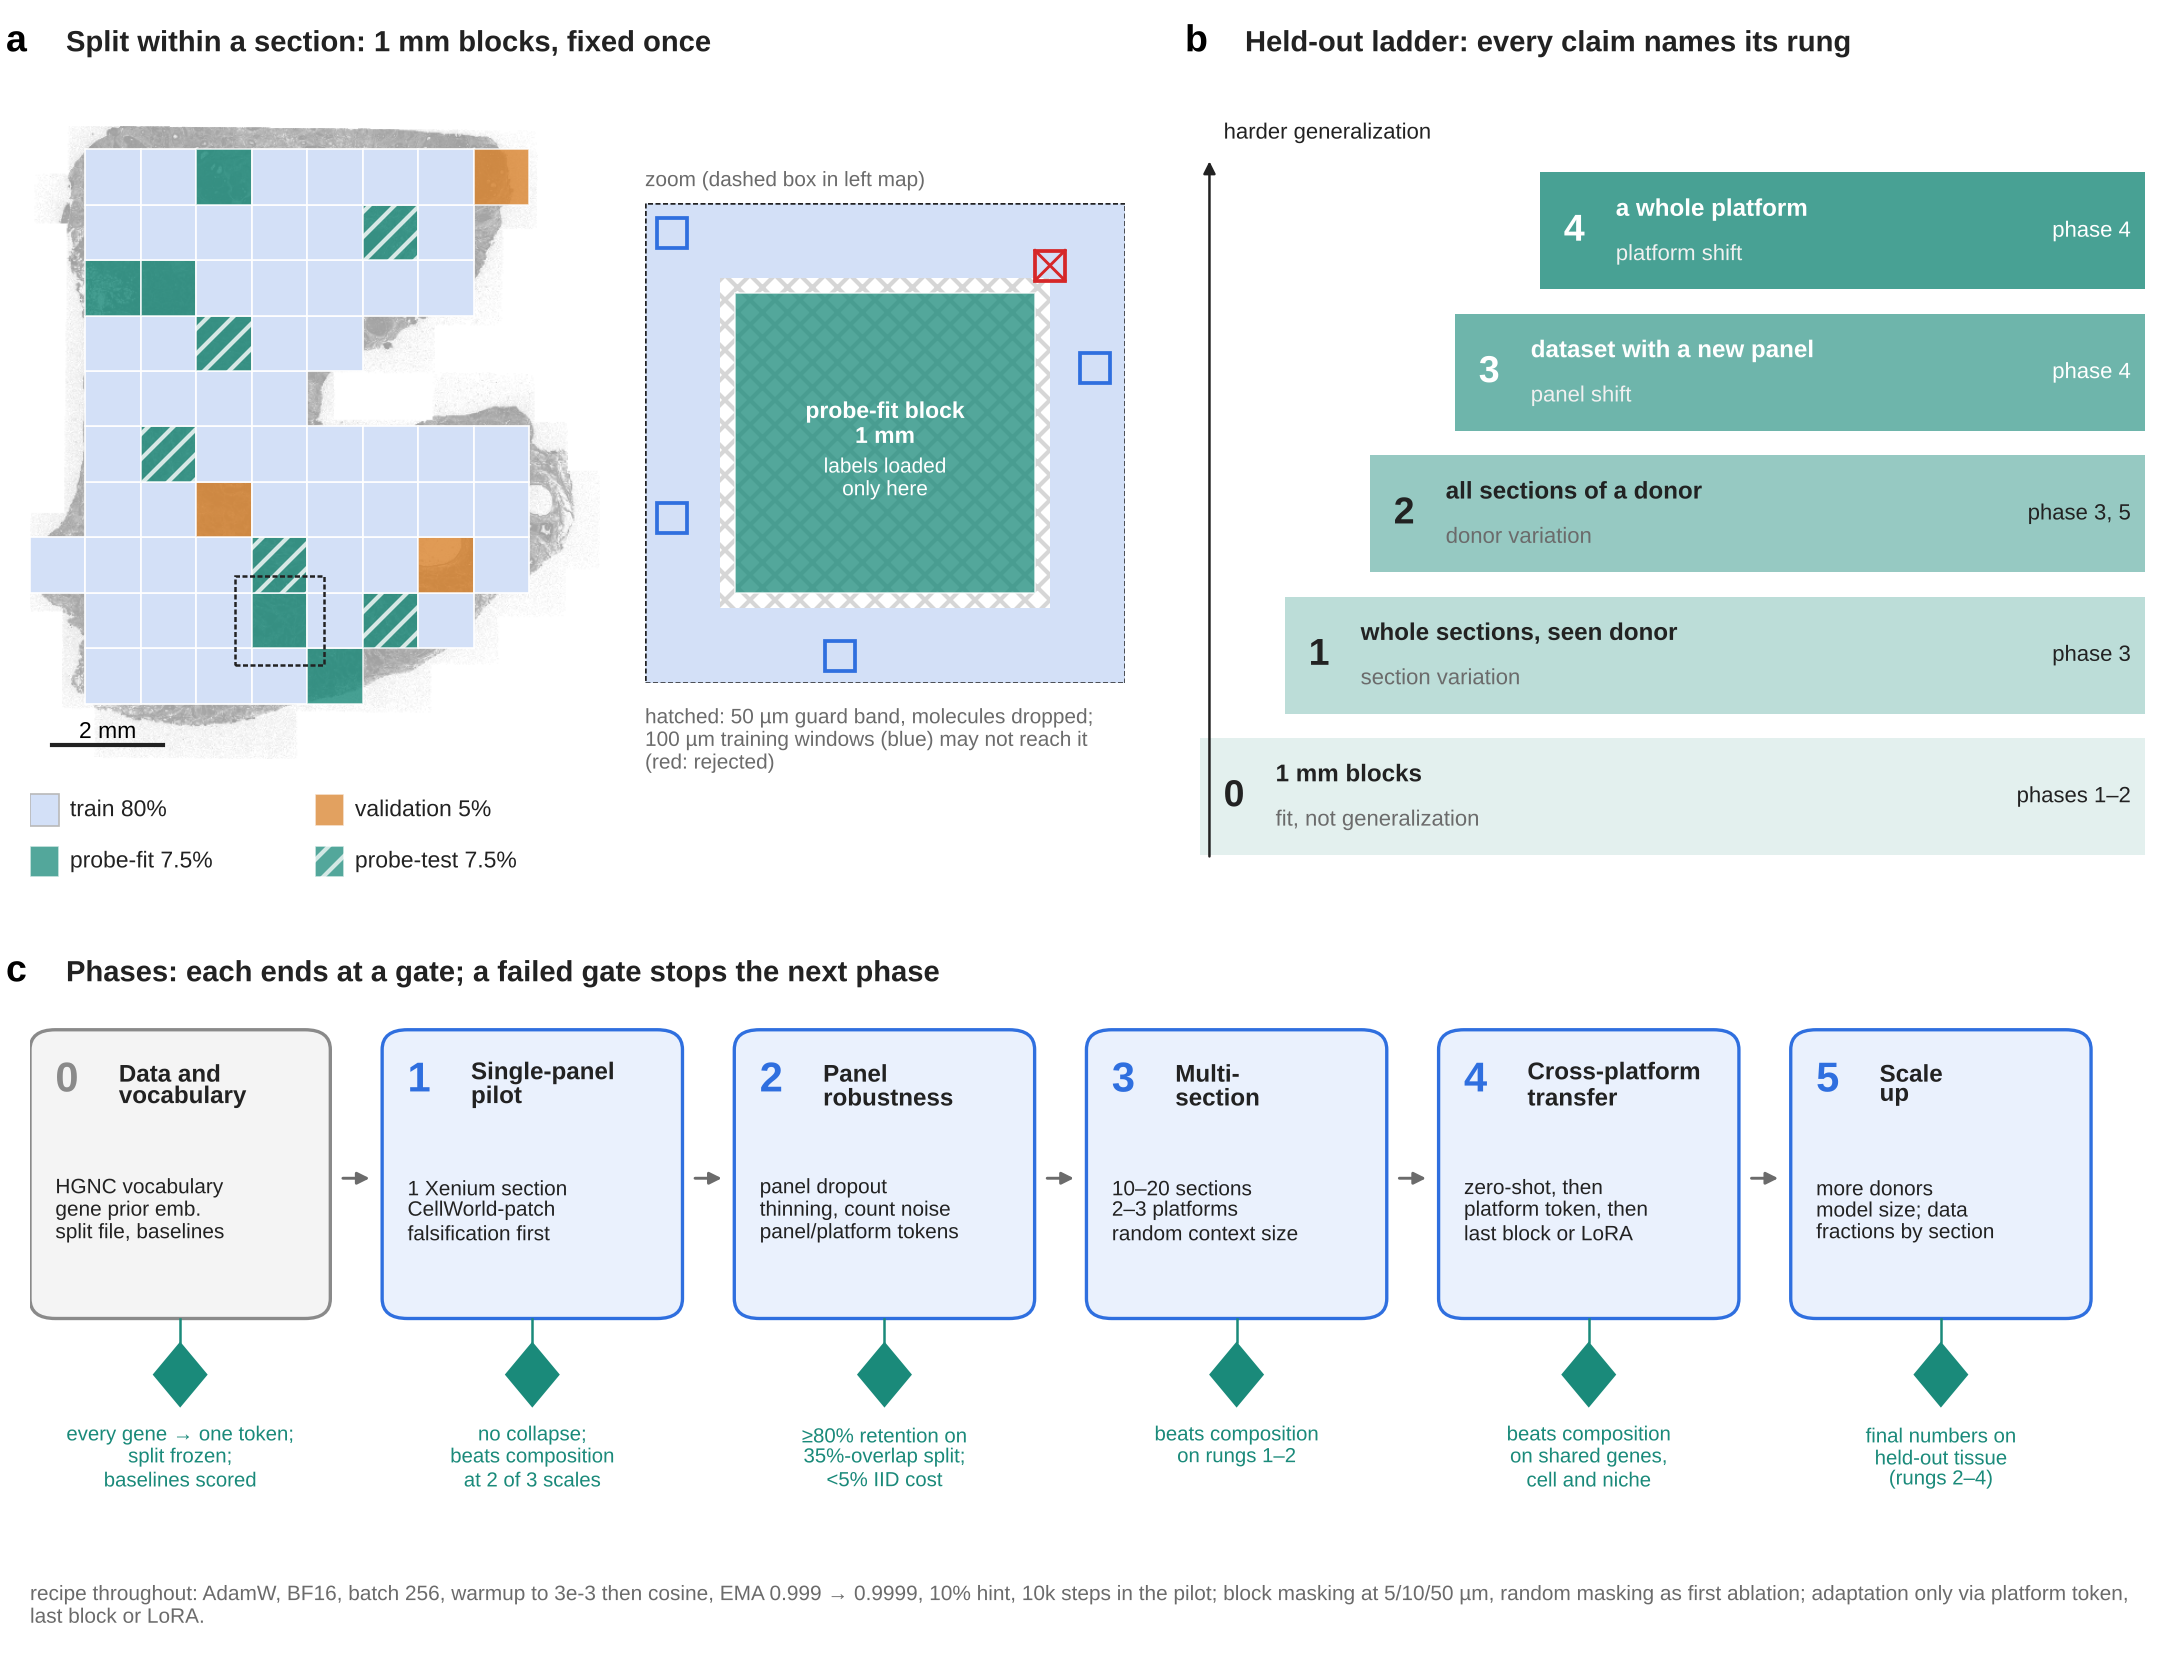
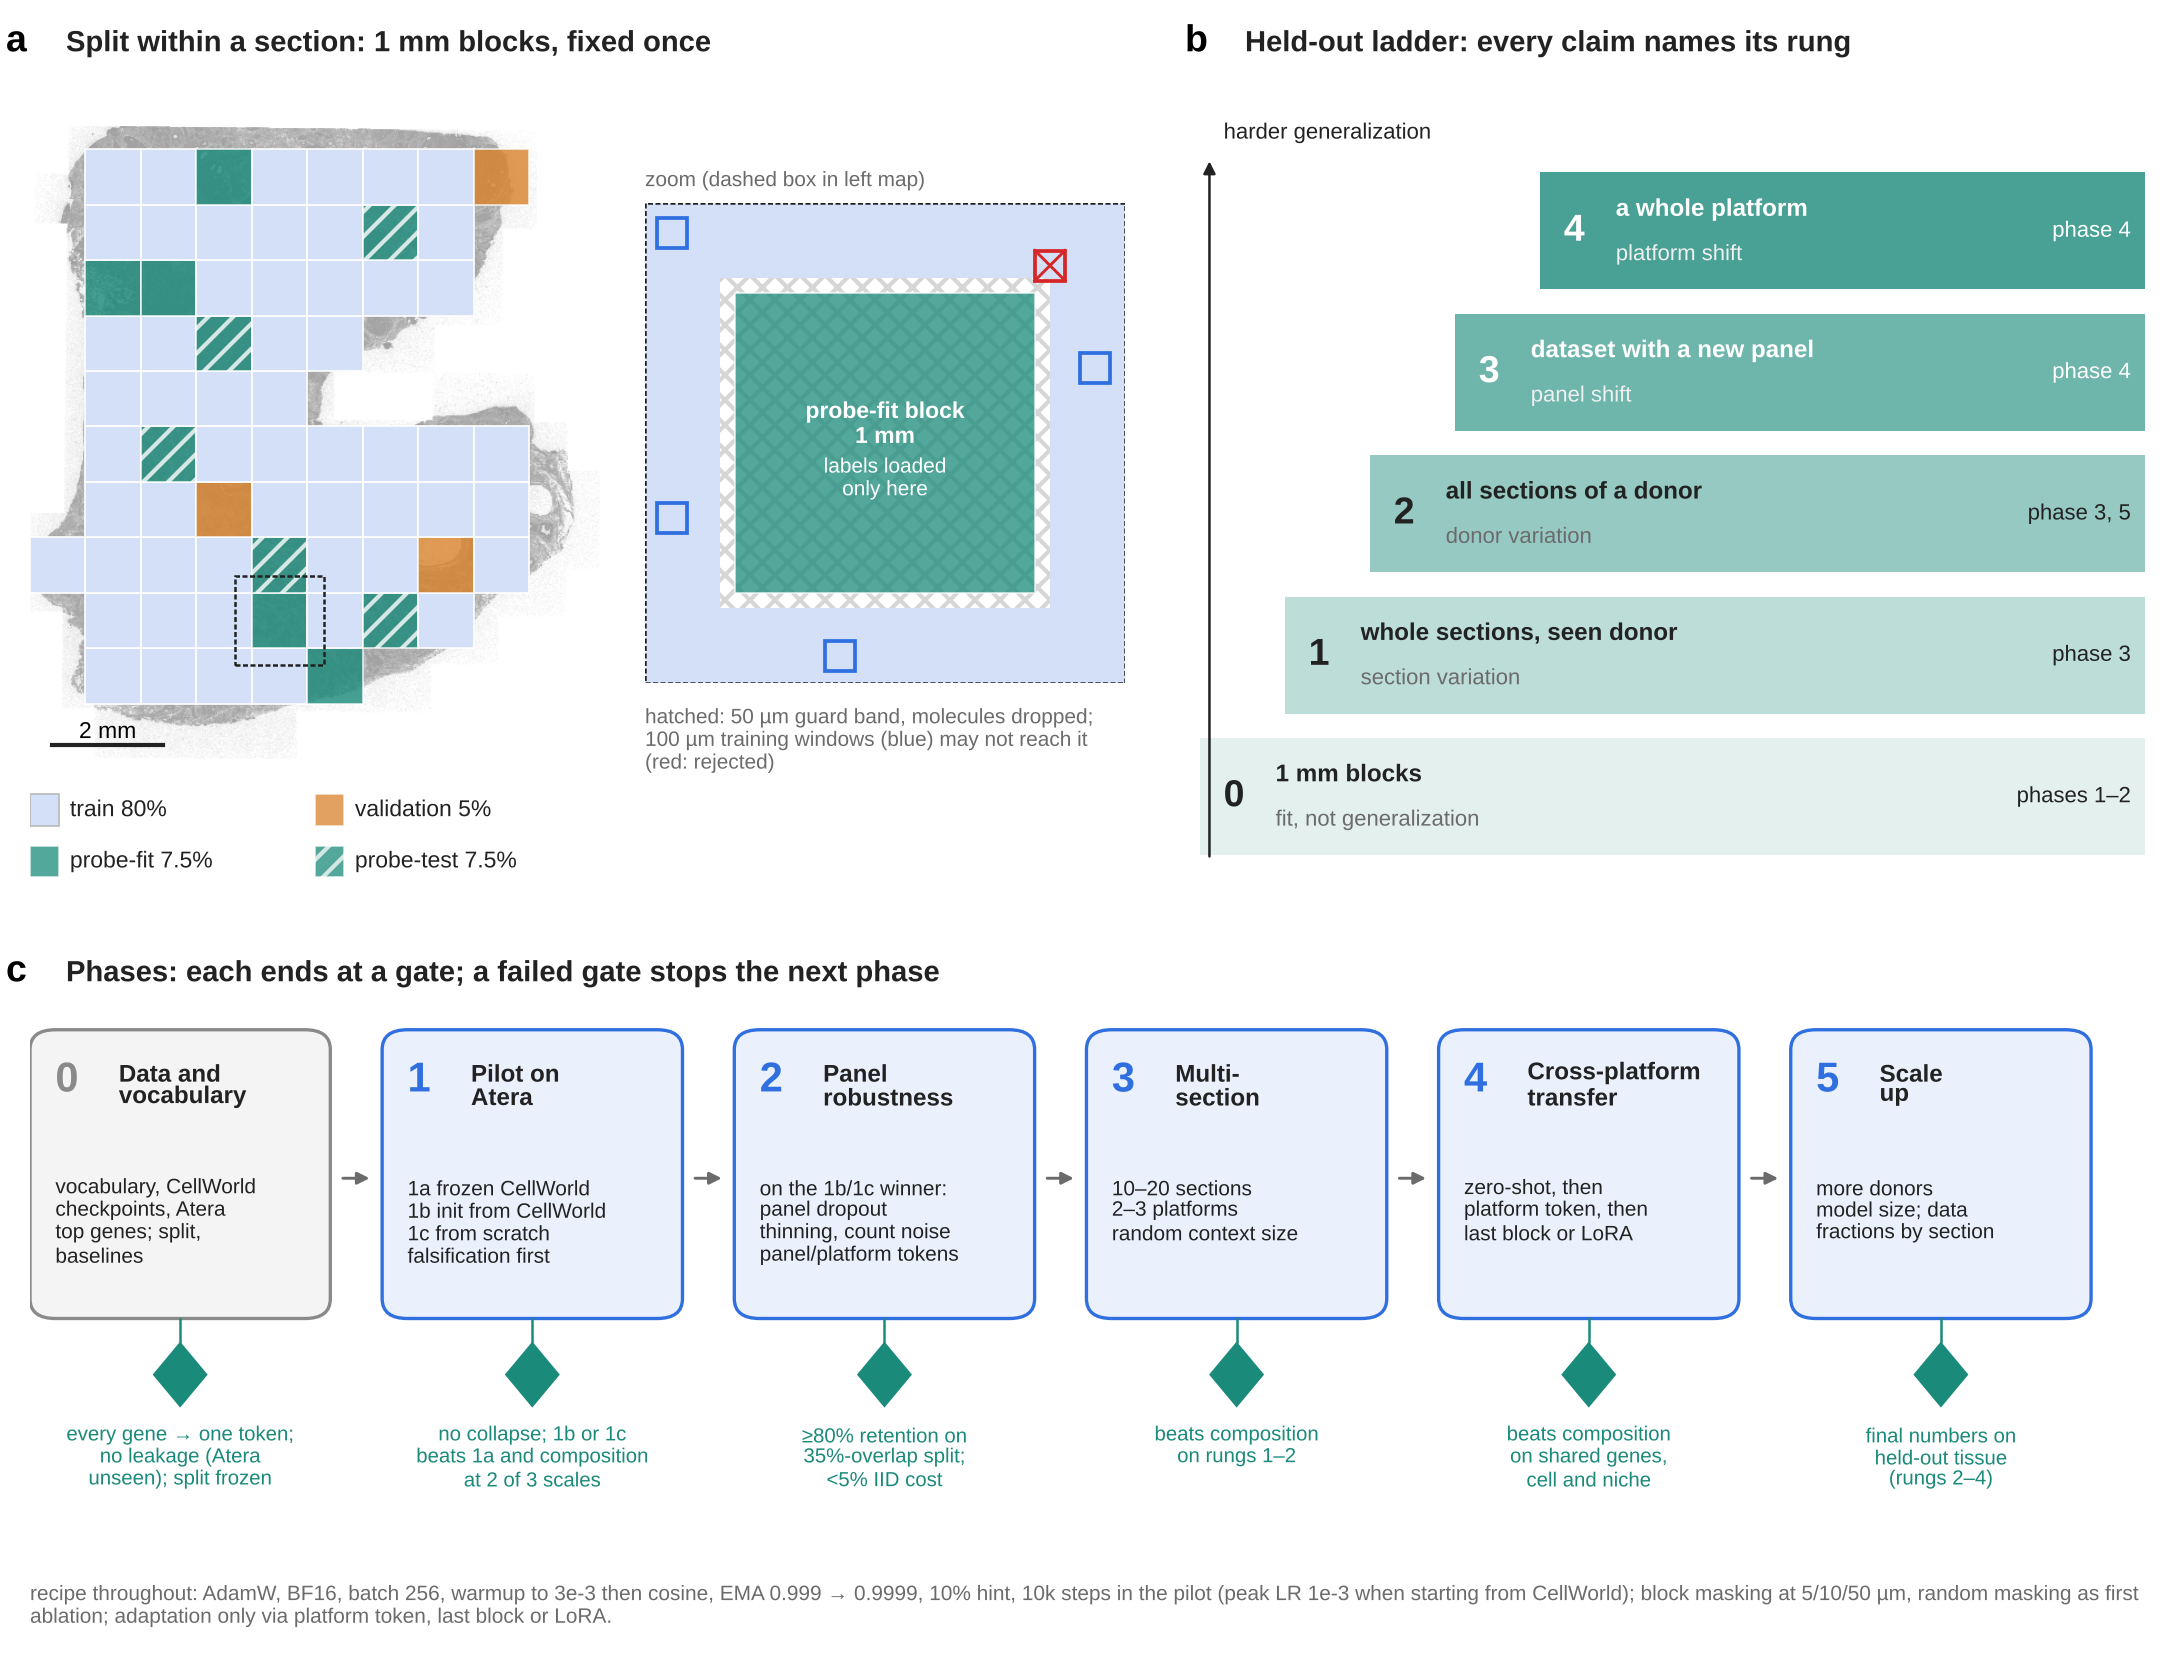
Training plan figure: phase 0 adds CellWorld checkpoints and Atera; phase 1 splits into 1a-1c
Claude-Session: https://claude.ai/code/session_012d8EFmZ4opmWsFf5qTYqDb

diff --git a/experiments/ptv3/figs/training_plan/training_plan_fig.py b/experiments/ptv3/figs/training_plan/training_plan_fig.py
@@ -98,9 +98,9 @@ ax.text(2.5, 77, "harder generalization", fontsize=5.3, color=INK, va="bottom")
 letter(0.02, 2.42, "c"); title(0.22, 2.40, "Phases: each ends at a gate; a failed gate stops the next phase")
 ax = axin(0.1, 0.05, 7.05, 2.2); ax.set_xlim(0, 100); ax.set_ylim(0, 40); ax.axis("off")
 phases = [
-    ("0", "Data and\nvocabulary", "HGNC vocabulary\ngene prior emb.\nsplit file, baselines", [], "every gene → one token;\nsplit frozen;\nbaselines scored"),
-    ("1", "Single-panel\npilot", "1 Xenium section\nCellWorld-patch\nfalsification first", ["CellWorld"], "no collapse;\nbeats composition\nat 2 of 3 scales"),
-    ("2", "Panel\nrobustness", "panel dropout\nthinning, count noise\npanel/platform tokens", ["Novae"], "≥80% retention on\n35%-overlap split;\n<5% IID cost"),
+    ("0", "Data and\nvocabulary", "vocabulary, CellWorld\ncheckpoints, Atera\ntop genes; split,\nbaselines", [], "every gene → one token;\nno leakage (Atera\nunseen); split frozen"),
+    ("1", "Pilot on\nAtera", "1a frozen CellWorld\n1b init from CellWorld\n1c from scratch\nfalsification first", ["CellWorld"], "no collapse; 1b or 1c\nbeats 1a and composition\nat 2 of 3 scales"),
+    ("2", "Panel\nrobustness", "on the 1b/1c winner:\npanel dropout\nthinning, count noise\npanel/platform tokens", ["Novae"], "≥80% retention on\n35%-overlap split;\n<5% IID cost"),
     ("3", "Multi-\nsection", "10–20 sections\n2–3 platforms\nrandom context size", ["TERRA", "CellWorld"], "beats composition\non rungs 1–2"),
     ("4", "Cross-platform\ntransfer", "zero-shot, then\nplatform token, then\nlast block or LoRA", ["TERRA"], "beats composition\non shared genes,\ncell and niche"),
     ("5", "Scale\nup", "more donors\nmodel size; data\nfractions by section", ["TERRA", "CellWorld"], "final numbers on\nheld-out tissue\n(rungs 2–4)"),
@@ -119,7 +119,7 @@ for i, (n, name, work, srcs, gate) in enumerate(phases):
     ax.text(gx, 14.6, gate, fontsize=4.9, va="top", ha="center", color=EVAL, linespacing=1.15)
     if i < len(phases) - 1:
         ax.add_patch(FancyArrowPatch((x + pw + 0.2, 29.5), (x + pw + gap - 0.2, 29.5), arrowstyle="-|>", mutation_scale=6, color=MUTED, lw=0.7))
-ax.text(0, 2.2, "recipe throughout: AdamW, BF16, batch 256, warmup to 3e-3 then cosine, EMA 0.999 → 0.9999, 10% hint, 10k steps in the pilot; "
+ax.text(0, 2.2, "recipe throughout: AdamW, BF16, batch 256, warmup to 3e-3 then cosine, EMA 0.999 → 0.9999, 10% hint, 10k steps in the pilot (peak LR 1e-3 when starting from CellWorld); "
         "block masking at 5/10/50 µm, random masking as first ablation; adaptation only via platform token, last block or LoRA.",
         fontsize=5, color=MUTED, va="bottom", wrap=True)
 for ext in ("png", "pdf"): fig.savefig(HERE / f"training_plan.{ext}", dpi=300, facecolor="white")
